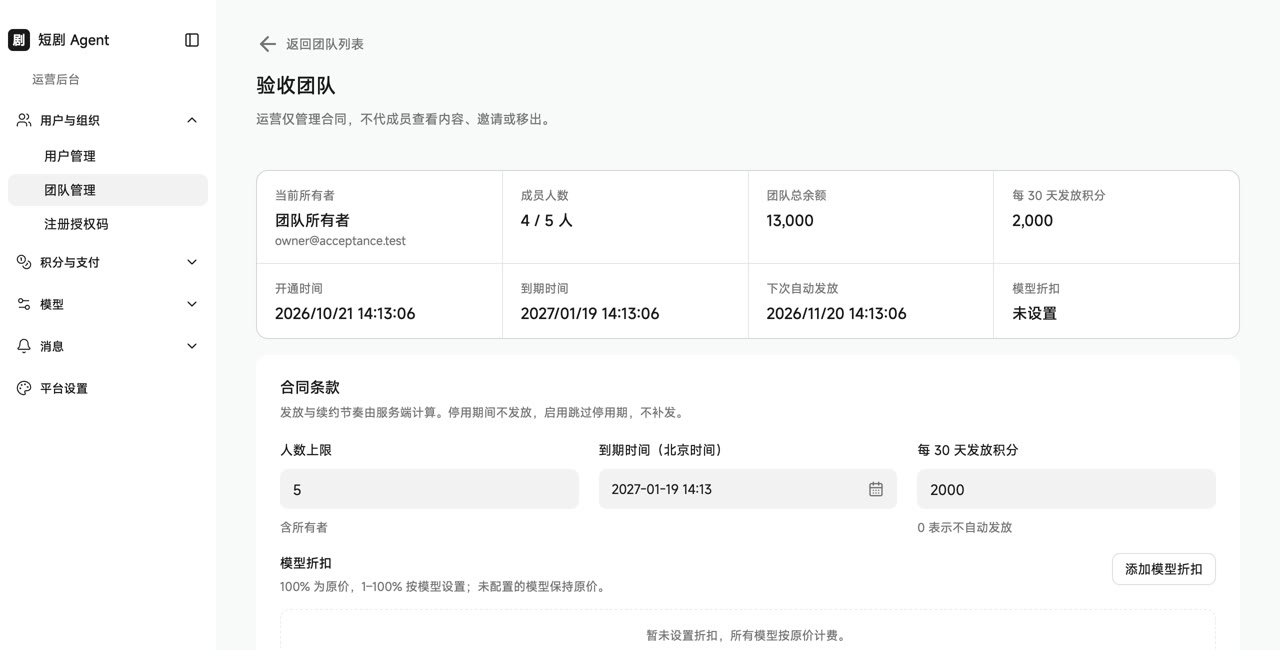
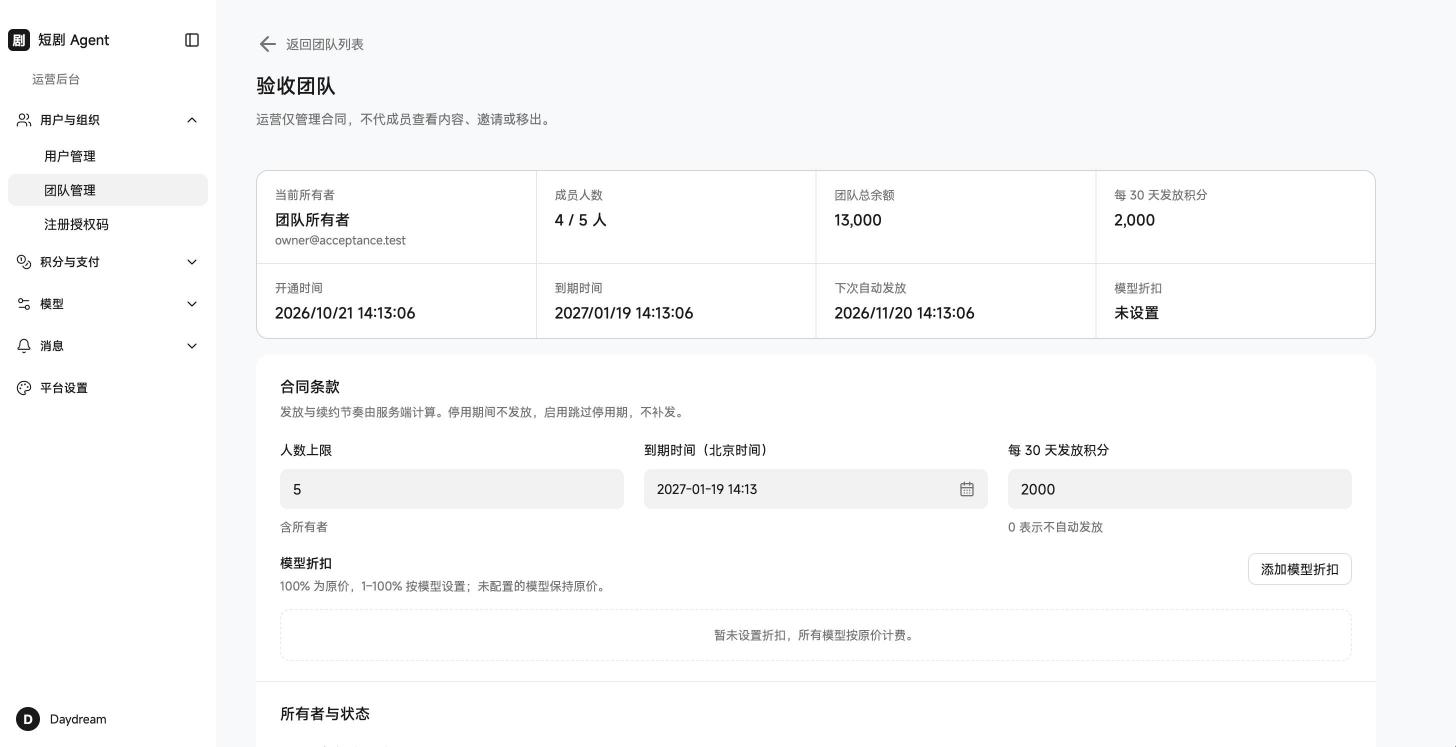
docs: README 截图改为浏览器实拍并补充支付订单与部署说明

diff --git a/README.md b/README.md
@@ -6,7 +6,7 @@
 - **个人与团队空间**：邀请成员、分配角色与积分，项目共享与编辑占用，团队资源可交接。
 - **积分与支付**：按模型定价、生成前预估、团队折扣、在线充值与退款扣回。
 - **运营后台**：账号、团队合同、模型与价格、积分策略、支付订单、用量、邮件、通知与品牌设置。
-- **一键部署**：一条命令启动整套服务，无需手工建库或准备运行环境。
+- **一键部署**：一条命令启动整套服务，前端（nginx）与后端分别打包为镜像，无需手工建库或准备运行环境。
 
 ## 一键部署
 
@@ -16,7 +16,7 @@
 sh deploy.sh
 ```
 
-脚本会自动构建、生成私有基础设施凭据、初始化空库并启动整套系统，无需手工建库、执行 SQL、安装 Go/Node.js 或准备字体。首次构建需要联网，资源要求见[部署指南](guide/deployment.md#部署前准备)。
+脚本会自动构建前端与后端两个应用镜像、生成私有基础设施凭据、初始化空库并启动整套系统，无需手工建库、执行 SQL、安装 Go/Node.js 或准备字体。首次构建需要联网，资源要求见[部署指南](guide/deployment.md#部署前准备)。
 
 - 工作台：<http://127.0.0.1:8787/demo/app/>
 - 运营后台：<http://127.0.0.1:8787/demo/app/#/operations-login>
@@ -68,7 +68,7 @@ sh deploy.sh
 
 - **收银台**：固定充值档位，可配置赠送比例与限时优惠；个人空间与团队都能充值，团队仅所有者可充值。
 - **支付渠道**：电脑网页微信 Native 支付、支付宝当面付扫码，以及无需商户的演示收银台；渠道默认全部关闭，按需在配置中开启。
-- **订单与退款**：用户可查看本人充值记录；运营可按渠道事实核查到账、处理退款与对账异常，退款时同比例扣回赠送积分。
+- **订单与退款**：用户可从积分页的「充值记录」查看本人订单；运营可按渠道事实核查到账、处理退款与对账异常，退款时同比例扣回赠送积分。
 - **协议页**：用户服务协议、隐私政策和积分充值协议以独立页面在新标签页打开，未登录也可阅读；正文为示例，正式条款请自行替换。
 
 | 充值收银台 | 充值记录 |
@@ -84,7 +84,9 @@ sh deploy.sh
 - **积分与支付**：账户积分调整、赠送策略、充值档位与单日限额、支付订单与支付异常。
 - **消息与平台**：站内通知群发、邮件服务配置、平台名称与品牌设置。
 
-![运营后台：团队合同](assets/screenshots/operations-team.jpg)
+| 团队合同 | 支付订单 |
+| --- | --- |
+| ![团队合同](assets/screenshots/operations-team.jpg) | ![支付订单](assets/screenshots/operations-payments.jpg) |
 
 ### 其他
 
